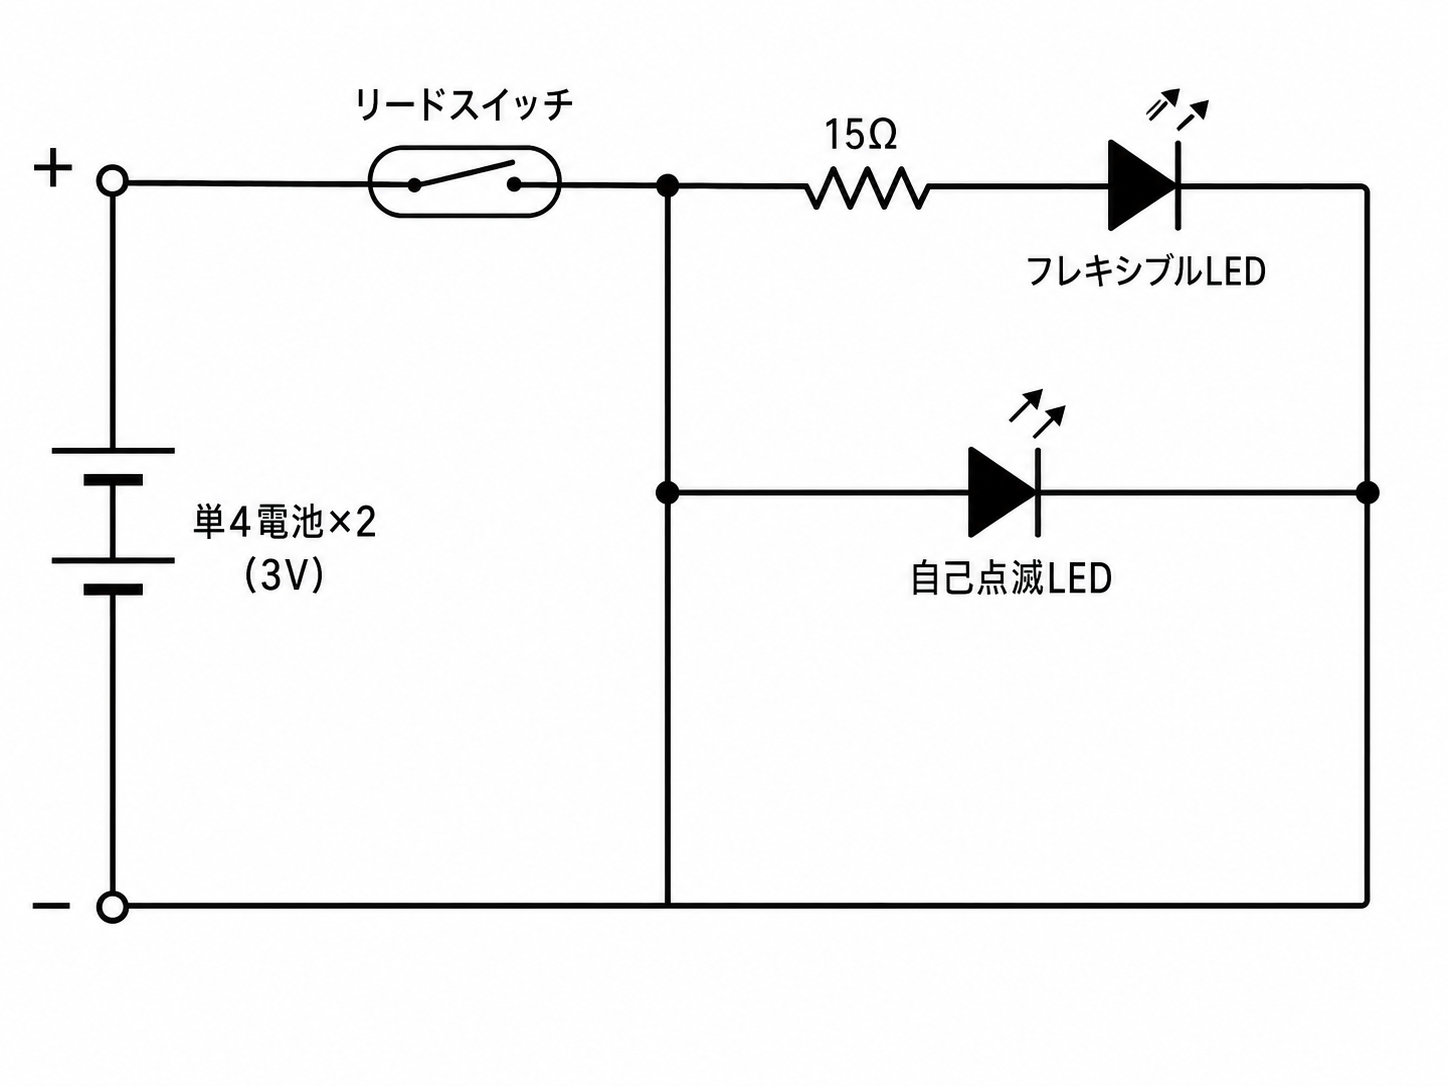
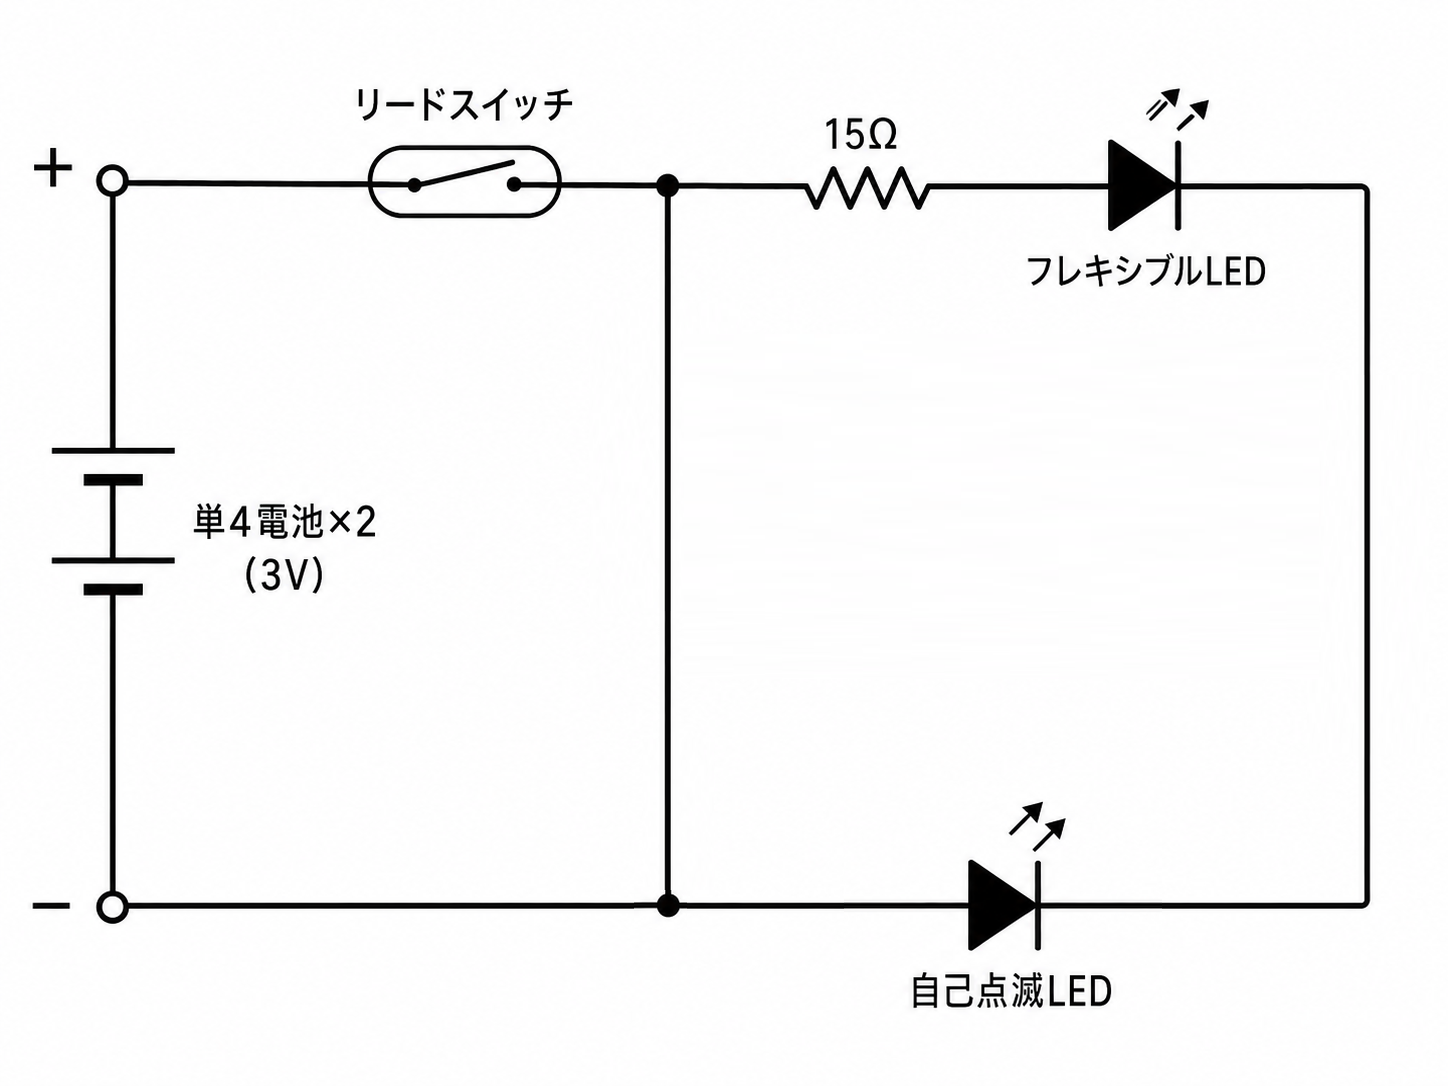
回路図及び表記を修正

diff --git a/README.md b/README.md
@@ -4,8 +4,8 @@
 
 ![鍵チャームを近づけると光るコンパクト](images/compact_lit.jpg)
 
-| 内側（ミラー＋光るパーツ） | デコレーション例 |
-|---|---|
+| 内側（ミラー＋光るパーツ）            | デコレーション例                             |
+| ------------------------------------- | -------------------------------------------- |
 | ![内側](images/compact_blue_open.jpg) | ![デコ例](images/compact_pink_decorated.jpg) |
 
 磁石でリードスイッチがONになり、LEDに電気が流れて光るしくみ。中学生向け電子工作ワークショップのために設計したものですが、このリポジトリはおうちで1個から作れるようにまとめています。
@@ -22,14 +22,14 @@
 
 すべてPLAでの印刷を想定しています。
 
-| ファイル | パーツ | 備考 |
-|---|---|---|
-| `A_body_bottom.stl` | ボディ（ボトム） | 回路・光るパーツが入る側 |
-| `B_body_lid_mirror.stl` | ボディ（蓋） | ミラーを両面テープで固定する側 |
-| `C_hinge.stl` | ヒンジ | ボディ上下をつなぐ |
-| `D_inner_5mmLED.stl` | 内側パーツ（穴7mm） | 5mm LED＋拡散カバー用 |
-| `D_inner_3mmLED.stl` | 内側パーツ | 3mm LED用 |
-| `key_charm.stl` | 鍵チャーム | ネオジム磁石を仕込むキーチェーン |
+| ファイル                | パーツ              | 備考                             |
+| ----------------------- | ------------------- | -------------------------------- |
+| `A_body_bottom.stl`     | ボディ（ボトム）    | 回路・光るパーツが入る側         |
+| `B_body_lid_mirror.stl` | ボディ（蓋）        | ミラーを両面テープで固定する側   |
+| `C_hinge.stl`           | ヒンジ              | ボディ上下をつなぐ               |
+| `D_inner_5mmLED.stl`    | 内側パーツ（穴7mm） | 5mm LED＋拡散カバー用            |
+| `D_inner_3mmLED.stl`    | 内側パーツ          | 3mm LED用                        |
+| `key_charm.stl`         | 鍵チャーム          | ネオジム磁石を仕込むキーチェーン |
 
 ヒンジ（C）は、次の向きでの印刷を推奨します。
 
@@ -39,26 +39,26 @@
 
 ### 電子部品（秋月電子通商）
 
-| 部品 | 数量 | 備考 |
-|---|---:|---|
-| [電池ボックス 単4×2本 リード線・フタ・スイッチ付［100348］](https://akizukidenshi.com/catalog/g/g100348/) | 1 | 130円 |
-| [リードスイッチ MKA-10110［103676］](https://akizukidenshi.com/catalog/g/g103676/) | 1 | 5個セット290円 |
-| [自己点滅LED 5mm 白 OSW5DS5B61A［115198］](https://akizukidenshi.com/catalog/g/g115198/) | 1 | 5個セット160円、3.3V品 |
-| フレキシブルLED（好きな色をいずれか1本） | 1 | 各400円、3V品。[青](https://akizukidenshi.com/catalog/g/g118008/)・[黄](https://akizukidenshi.com/catalog/g/g118010/)・[赤](https://akizukidenshi.com/catalog/g/g118006/)・[緑](https://akizukidenshi.com/catalog/g/g118007/)・[ピンク](https://akizukidenshi.com/catalog/g/g118009/)・[白（ウォームホワイト）](https://akizukidenshi.com/catalog/g/g118011/) |
-| [カーボン抵抗 1/4W 15Ω［114289］](https://akizukidenshi.com/catalog/g/g114289/) | 1 | 100個セット100円、フレキシブルLED用 |
+| 部品                                                                                                      | 数量 | 備考                                                                                                                                                                                                                                                                                                                                                          |
+| --------------------------------------------------------------------------------------------------------- | ---: | ------------------------------------------------------------------------------------------------------------------------------------------------------------------------------------------------------------------------------------------------------------------------------------------------------------------------------------------------------------- |
+| [電池ボックス 単4×2本 リード線・フタ・スイッチ付［100348］](https://akizukidenshi.com/catalog/g/g100348/) |    1 | 130円                                                                                                                                                                                                                                                                                                                                                         |
+| [リードスイッチ MKA-10110［103676］](https://akizukidenshi.com/catalog/g/g103676/)                        |    1 | 5個セット290円                                                                                                                                                                                                                                                                                                                                                |
+| [自己点滅LED 5mm 白 OSW5DS5B61A［115198］](https://akizukidenshi.com/catalog/g/g115198/)                  |    1 | 5個セット160円、3.3V品                                                                                                                                                                                                                                                                                                                                        |
+| フレキシブルLED（好きな色をいずれか1本）                                                                  |    1 | 各400円、3V品。[青](https://akizukidenshi.com/catalog/g/g118008/)・[黄](https://akizukidenshi.com/catalog/g/g118010/)・[赤](https://akizukidenshi.com/catalog/g/g118006/)・[緑](https://akizukidenshi.com/catalog/g/g118007/)・[ピンク](https://akizukidenshi.com/catalog/g/g118009/)・[白（ウォームホワイト）](https://akizukidenshi.com/catalog/g/g118011/) |
+| [カーボン抵抗 1/4W 15Ω［114289］](https://akizukidenshi.com/catalog/g/g114289/)                           |    1 | 100個セット100円、フレキシブルLED用                                                                                                                                                                                                                                                                                                                           |
 
 ### その他の材料
 
-| 品名 | 数量 | 参考 |
-|---|---:|---|
-| ネオジム磁石（丸・直径13mm×厚み1mm） | 1 | [Amazon（10個入）](https://www.amazon.co.jp/dp/B0FHKL6JNX)。鍵チャームに仕込む |
-| ミラー 丸 60mm（ガラス製） | 1 | [貴和製作所](https://kiwaseisakujo.jp/collections/g-metalfittings-goods-mirror/products/g-metalfittings-goods-mirror-002)、88円 |
-| 単4電池 | 2 | — |
-| PLAフィラメント | — | 3Dプリント用 |
-| マスキングテープ | — | 部品の固定・絶縁用 |
-| 両面テープ | — | ミラー固定用 |
-| ボールチェーン | 1 | 鍵チャーム用 |
-| デコレーション用のシール・石 | — | 好みで。石は手芸店や100円ショップのもので大丈夫です |
+| 品名                                 | 数量 | 参考                                                                                                                            |
+| ------------------------------------ | ---: | ------------------------------------------------------------------------------------------------------------------------------- |
+| ネオジム磁石（丸・直径13mm×厚み1mm） |    1 | [Amazon（10個入）](https://www.amazon.co.jp/dp/B0FHKL6JNX)。鍵チャームに仕込む                                                  |
+| ミラー 丸 60mm（ガラス製）           |    1 | [貴和製作所](https://kiwaseisakujo.jp/collections/g-metalfittings-goods-mirror/products/g-metalfittings-goods-mirror-002)、88円 |
+| 単4電池                              |    2 | —                                                                                                                               |
+| PLAフィラメント                      |    — | 3Dプリント用                                                                                                                    |
+| マスキングテープ                     |    — | 部品の固定・絶縁用                                                                                                              |
+| 両面テープ                           |    — | ミラー固定用                                                                                                                    |
+| ボールチェーン                       |    1 | 鍵チャーム用                                                                                                                    |
+| デコレーション用のシール・石         |    — | 好みで。石は手芸店や100円ショップのもので大丈夫です                                                                             |
 
 ## 配線
 
@@ -96,7 +96,7 @@
 
 ## クレジット
 
-- 設計相談：[五味さん（EdelWorksPrj）](https://x.com/GomiHgy)
+- 設計相談：[五味さん（EdelWorks）](https://x.com/GomiHgy)
 - CADデータ作成：株式会社なかよし uni
 
 ### スポンサー（カンパ）
